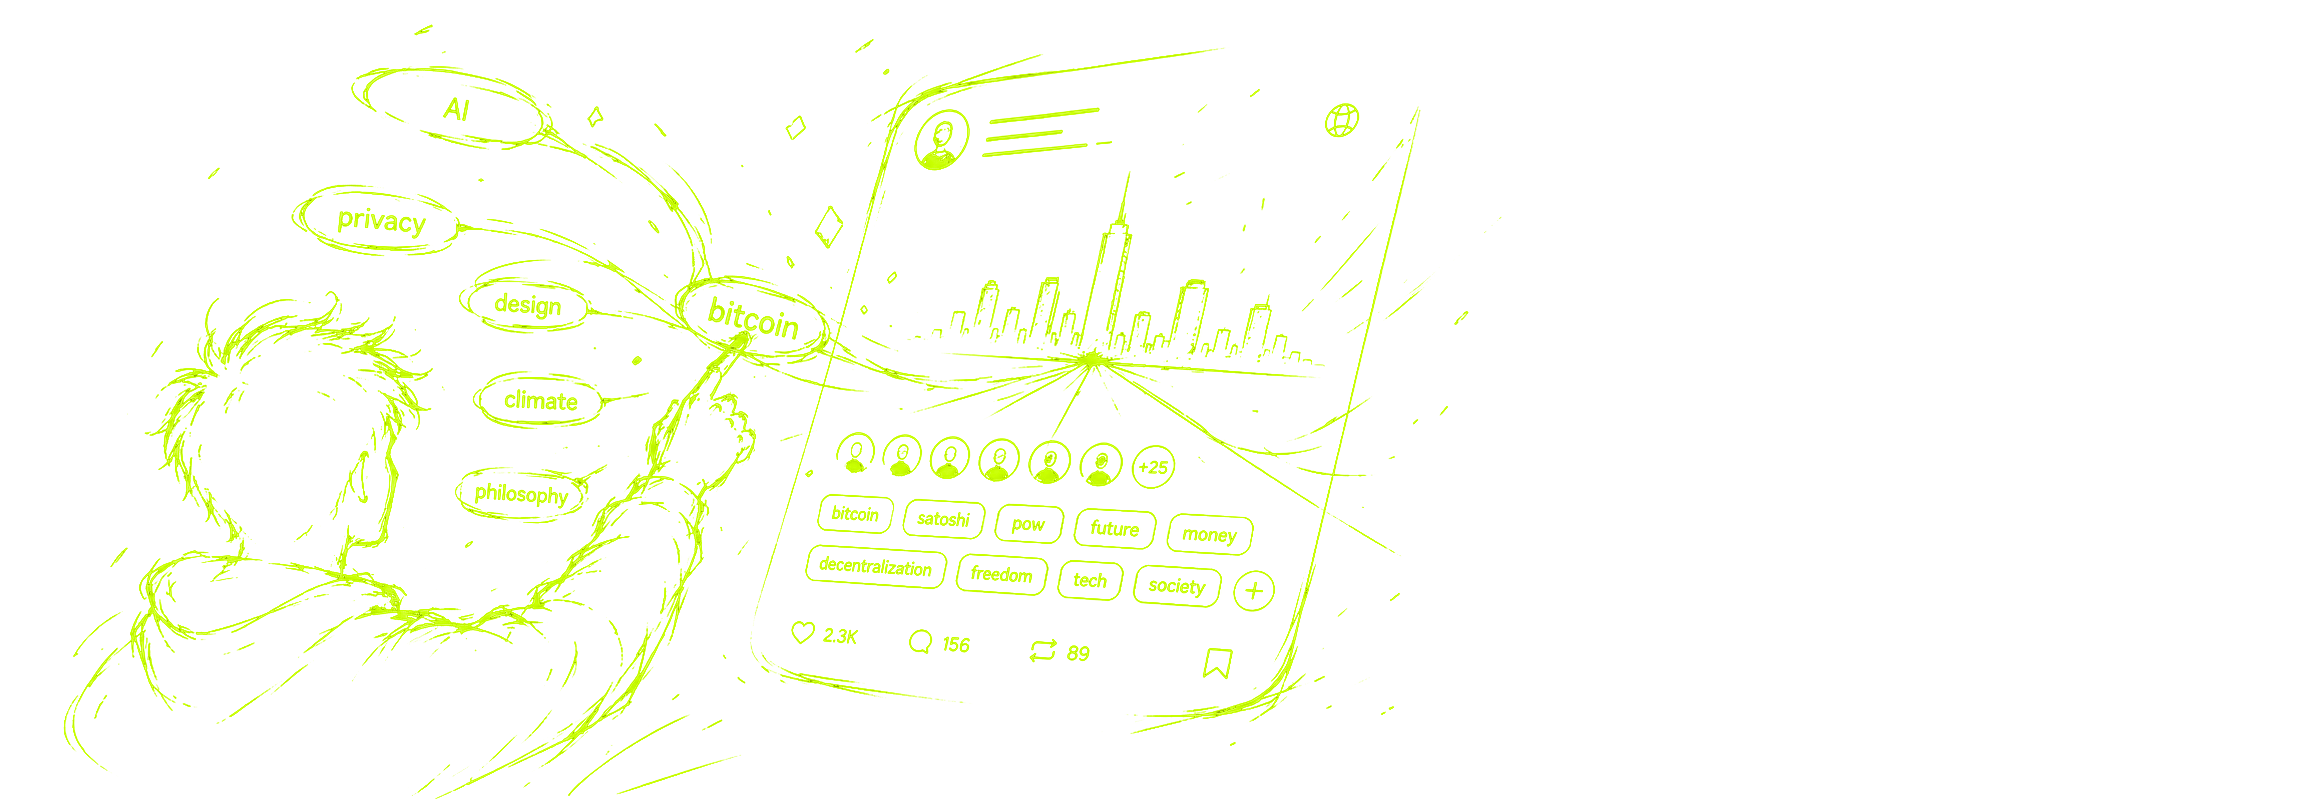
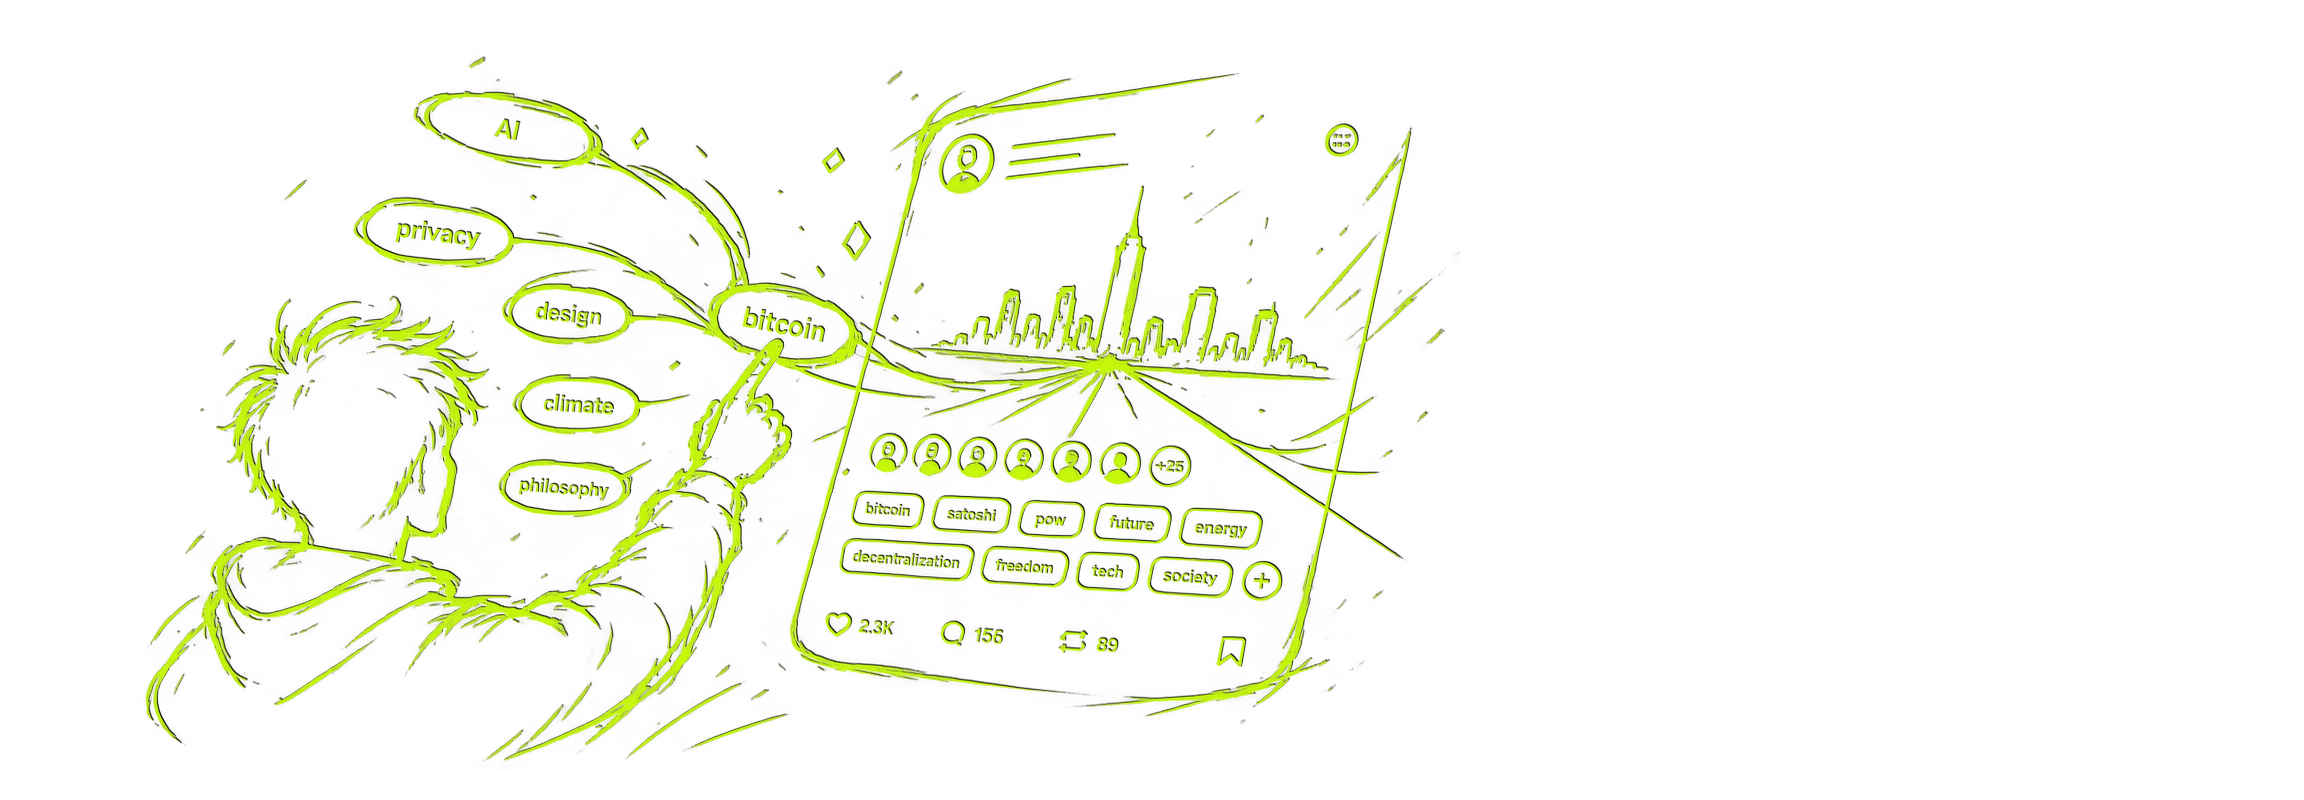
feat(ui): showcase locks and market on the homepage

diff --git a/src/components/templates/Public/Landing/LandingFreedomSection.tsx b/src/components/templates/Public/Landing/LandingFreedomSection.tsx
@@ -2,6 +2,7 @@
 
 import { useCallback, useEffect, useRef, useState } from 'react';
 import { ChevronRight } from 'lucide-react';
+import { Button } from '@/atoms/Button/Button';
 import { Container } from '@/atoms/Container/Container';
 import { Heading } from '@/atoms/Heading/Heading';
 import { Typography } from '@/atoms/Typography/Typography';
@@ -41,6 +42,18 @@ const FEATURES: Array<{ key: string; backgroundImage: string; title: string; des
     backgroundImage: '/images/landing-experience5.png',
     title: 'Collect what matters',
     description: 'Save posts worth keeping, curate your own ideas, and share your collections with others.',
+  },
+  {
+    key: 'locks',
+    backgroundImage: '/images/landing-experience6.png',
+    title: 'Sell your content',
+    description: 'Put a price on your content with Pubky Locks. Let people pay to unlock the value you create.',
+  },
+  {
+    key: 'market',
+    backgroundImage: '/images/landing-experience7.png',
+    title: 'Make a living',
+    description: 'Sell products on Pubky Market. Turn your key into a shop and connect directly with buyers.',
   },
 ];
 
@@ -82,7 +95,7 @@ export function LandingFreedomSection() {
     const timeoutId = window.setTimeout(handleNextSlide, SLIDE_DURATION_MS);
 
     return () => window.clearTimeout(timeoutId);
-  }, [activeSlide, handleNextSlide, isSectionVisible]);
+  }, [activeSlide, carouselRun, handleNextSlide, isSectionVisible]);
 
   const activeFeature = FEATURES[activeSlide];
   const slideNumber = String(activeSlide + 1).padStart(2, '0');
@@ -108,11 +121,11 @@ export function LandingFreedomSection() {
             {'Nobody feeds you. Create, shape, and experience the web on your terms.'}
           </Typography>
         </Container>
-        <article className="relative min-h-[560px] overflow-hidden rounded-md bg-card/80 p-12 shadow-sm backdrop-blur-sm md:min-h-[368px]">
+        <article className="relative min-h-[560px] overflow-hidden rounded-md bg-card/80 p-12 pb-80 shadow-sm backdrop-blur-sm md:min-h-[368px] md:pb-24">
           {FEATURES.map(({ key, backgroundImage }, index) => (
             <div
               key={key}
-              className={`absolute inset-x-0 bottom-0 h-[58%] bg-[length:auto_100%] bg-no-repeat opacity-0 transition-opacity duration-500 ease-in-out [background-position:calc(50%+100px)_100%] md:inset-0 md:h-auto md:bg-cover md:bg-center ${
+              className={`absolute inset-x-0 bottom-0 h-80 bg-[length:auto_100%] bg-no-repeat opacity-0 transition-opacity duration-500 ease-in-out [background-position:calc(50%+100px)_100%] md:inset-0 md:h-auto md:bg-cover md:bg-center ${
                 activeSlide === index ? 'opacity-100' : ''
               }`}
               style={{ backgroundImage: `url(${backgroundImage})` }}
@@ -139,14 +152,45 @@ export function LandingFreedomSection() {
               </Typography>
             </div>
           </div>
-          <button
-            type="button"
-            className="absolute right-8 bottom-8 z-20 flex size-12 cursor-pointer items-center justify-center text-brand transition-all duration-200 hover:scale-110 hover:text-foreground focus-visible:ring-2 focus-visible:ring-brand focus-visible:ring-offset-2 focus-visible:ring-offset-background focus-visible:outline-none md:right-10 md:bottom-10"
-            onClick={handleNextSlide}
-            aria-label={'Next slide'}
-          >
-            <ChevronRight className="size-10" strokeWidth={2.5} />
-          </button>
+          <div className="mt-4 md:absolute md:inset-x-12 md:bottom-10 md:z-10 md:mt-0">
+            <div className="pl-12 md:ml-auto md:w-[30%]">
+              <div className="-mr-4 ml-5 flex items-center md:-mr-2">
+                <div role="group" aria-label="Slide navigation" className="relative z-10 flex min-w-0 max-w-42 flex-1">
+                  {FEATURES.map(({ key, title }, index) => (
+                    <Button
+                      key={key}
+                      overrideDefaults
+                      type="button"
+                      className="group/dot flex h-12 min-w-0 flex-1 cursor-pointer items-center rounded-sm focus-visible:ring-2 focus-visible:ring-brand focus-visible:outline-none"
+                      aria-label={`Go to slide ${index + 1}: ${title}`}
+                      aria-current={activeSlide === index ? 'true' : undefined}
+                      onClick={() => {
+                        setActiveSlide(index);
+                        setCarouselRun((currentRun) => currentRun + 1);
+                      }}
+                    >
+                      <span
+                        aria-hidden
+                        className={cn(
+                          'size-1.5 shrink-0 rounded-full bg-brand transition-all duration-200 group-hover/dot:scale-125 group-hover/dot:opacity-50',
+                          activeSlide === index ? 'opacity-100' : 'opacity-30',
+                        )}
+                      />
+                    </Button>
+                  ))}
+                </div>
+                <Button
+                  overrideDefaults
+                  type="button"
+                  className="absolute right-8 bottom-8 z-10 ml-auto flex size-12 shrink-0 cursor-pointer items-center justify-center text-brand transition-all duration-200 hover:scale-110 hover:text-foreground focus-visible:ring-2 focus-visible:ring-brand focus-visible:ring-offset-2 focus-visible:ring-offset-background focus-visible:outline-none md:static"
+                  onClick={handleNextSlide}
+                  aria-label={'Next slide'}
+                >
+                  <ChevronRight className="size-10" strokeWidth={2.5} />
+                </Button>
+              </div>
+            </div>
+          </div>
         </article>
       </Container>
     </section>

diff --git a/src/components/templates/Public/Landing/LandingFreedomSection.test.tsx b/src/components/templates/Public/Landing/LandingFreedomSection.test.tsx
@@ -1,0 +1,103 @@
+import { act, fireEvent, render, screen, within } from '@testing-library/react';
+import userEvent from '@testing-library/user-event';
+import { afterEach, beforeEach, describe, expect, it, vi } from 'vitest';
+import { LandingFreedomSection } from './LandingFreedomSection';
+
+describe('LandingFreedomSection', () => {
+  beforeEach(() => {
+    vi.stubGlobal(
+      'IntersectionObserver',
+      class extends IntersectionObserver {
+        constructor(private readonly onIntersection: IntersectionObserverCallback) {
+          super(onIntersection);
+        }
+
+        observe(target: Element) {
+          this.onIntersection(
+            [
+              {
+                target,
+                isIntersecting: true,
+                intersectionRatio: 1,
+                boundingClientRect: target.getBoundingClientRect(),
+                intersectionRect: target.getBoundingClientRect(),
+                rootBounds: null,
+                time: 0,
+              },
+            ],
+            this,
+          );
+        }
+      },
+    );
+  });
+
+  afterEach(() => {
+    vi.useRealTimers();
+    vi.unstubAllGlobals();
+  });
+
+  it('provides seven slide controls with the first slide current', () => {
+    render(<LandingFreedomSection />);
+
+    const navigation = screen.getByRole('group', { name: 'Slide navigation' });
+    expect(within(navigation).getAllByRole('button')).toHaveLength(7);
+    expect(within(navigation).getByRole('button', { current: true })).toHaveAccessibleName(
+      'Go to slide 1: Create without limits',
+    );
+  });
+
+  it('selects the Market slide and returns to the first slide with the arrow', async () => {
+    const user = userEvent.setup();
+    render(<LandingFreedomSection />);
+
+    await user.click(screen.getByRole('button', { name: 'Go to slide 7: Make a living' }));
+
+    expect(screen.getByRole('heading', { name: 'Make a living' })).toBeInTheDocument();
+    expect(
+      screen.getByText(
+        'Sell products on Pubky Market. Turn your key into a shop and connect directly with buyers.',
+      ),
+    ).toBeInTheDocument();
+    expect(screen.getByRole('button', { current: true })).toHaveAccessibleName('Go to slide 7: Make a living');
+
+    await user.click(screen.getByRole('button', { name: 'Next slide' }));
+
+    expect(screen.getByRole('heading', { name: 'Create without limits' })).toBeInTheDocument();
+    expect(screen.getByRole('button', { current: true })).toHaveAccessibleName('Go to slide 1: Create without limits');
+  });
+
+  it('supports keyboard selection', async () => {
+    const user = userEvent.setup();
+    render(<LandingFreedomSection />);
+
+    screen.getByRole('button', { name: 'Go to slide 6: Sell your content' }).focus();
+    await user.keyboard('{Enter}');
+    expect(screen.getByRole('heading', { name: 'Sell your content' })).toBeInTheDocument();
+    expect(screen.getByRole('button', { current: true })).toHaveAccessibleName('Go to slide 6: Sell your content');
+  });
+
+  it('advances from Locks to Market automatically', () => {
+    vi.useFakeTimers();
+    render(<LandingFreedomSection />);
+    fireEvent.click(screen.getByRole('button', { name: 'Go to slide 6: Sell your content' }));
+
+    act(() => vi.advanceTimersByTime(6000));
+    expect(screen.getByRole('heading', { name: 'Make a living' })).toBeInTheDocument();
+    expect(screen.getByRole('button', { current: true })).toHaveAccessibleName('Go to slide 7: Make a living');
+  });
+
+  it('restarts the full slide duration when a dot is selected again', () => {
+    vi.useFakeTimers();
+    render(<LandingFreedomSection />);
+
+    fireEvent.click(screen.getByRole('button', { name: 'Go to slide 7: Make a living' }));
+    act(() => vi.advanceTimersByTime(5000));
+    fireEvent.click(screen.getByRole('button', { name: 'Go to slide 7: Make a living' }));
+    act(() => vi.advanceTimersByTime(5999));
+    expect(screen.getByRole('heading', { name: 'Make a living' })).toBeInTheDocument();
+
+    act(() => vi.advanceTimersByTime(1));
+    expect(screen.getByRole('heading', { name: 'Create without limits' })).toBeInTheDocument();
+  });
+});

diff --git a/src/test/vrt/landing/Landing.vrt.test.tsx b/src/test/vrt/landing/Landing.vrt.test.tsx
@@ -2,12 +2,14 @@
 // Vitest `__vi_import_N__` aliases; reordering causes a TDZ crash in
 // @vitest/browser. Do not let `eslint --fix` reorder these imports.
 /* eslint-disable simple-import-sort/imports */
-import { describe, it, vi } from 'vitest';
+import { describe, expect, it, vi } from 'vitest';
+import { page } from 'vitest/browser';
 import { matchVrtFrameScreenshot, preloadImages, renderForVRT } from '@/test-utils/vrt';
 import { VRT_VIEWPORT_DESKTOP, VRT_VIEWPORT_MOBILE } from '@/test-utils/vrt.viewports';
 import { createZustandLikeHook } from '@/test-utils/stores';
 import { Header } from '@/organisms/Header/Header';
 import { Landing } from '@/templates/Public/Landing/Landing';
+import { LandingFreedomSection } from '@/templates/Public/Landing/LandingFreedomSection';
 
 // Preload images into cache to guarantee they render before snapshot.
 // This ensures the logo and Synonym/"a tether. company" brand mark <img>s are loaded up front,
@@ -95,5 +97,57 @@ describe('Landing — visual regression', () => {
     await preloadImages(LANDING_LOGO_URLS);
     await renderForVRT(<LandingWithHeader />, { viewport: VRT_VIEWPORT_MOBILE });
     await matchVrtFrameScreenshot('landing-mobile');
+  });
+
+  it.each([
+    { name: 'desktop', viewport: VRT_VIEWPORT_DESKTOP },
+    { name: 'tablet', viewport: { width: 768, height: 1024 } },
+    { name: 'mobile', viewport: VRT_VIEWPORT_MOBILE },
+  ])('positions the seven slide dots and arrow on $name', async ({ name, viewport }) => {
+    await preloadImages(['/images/landing-experience7.png']);
+    await renderForVRT(<LandingFreedomSection />, { viewport });
+    const firstHeading = page.getByRole('heading', { name: 'Create without limits' });
+    await expect.element(firstHeading).toBeVisible();
+    const navigation = page.getByRole('group', { name: 'Slide navigation' }).element();
+    expect(navigation.getBoundingClientRect().top).toBeGreaterThan(
+      firstHeading.element().parentElement!.getBoundingClientRect().bottom,
+    );
+
+    await page.getByRole('button', { name: 'Go to slide 7: Make a living' }).click();
+    const heading = page.getByRole('heading', { name: 'Make a living' });
+    await expect.element(heading).toBeVisible();
+    await heading.hover();
+
+    const dots = navigation.querySelectorAll('button > span');
+    const arrow = page.getByRole('button', { name: 'Next slide' }).element().getBoundingClientRect();
+    expect(dots).toHaveLength(7);
+    expect(dots[0].getBoundingClientRect().left).toBeCloseTo(heading.element().getBoundingClientRect().left, 0);
+
+    dots.forEach((dot, index) => {
+      const bounds = dot.getBoundingClientRect();
+      if (name !== 'mobile') {
+        expect(bounds.top + bounds.height / 2).toBeCloseTo(arrow.top + arrow.height / 2, 0);
+        expect(bounds.right).toBeLessThanOrEqual(arrow.left);
+      }
+      expect(getComputedStyle(dot).opacity).toBe(index === 6 ? '1' : '0.3');
+    });
+    if (name === 'mobile') {
+      const article = page.getByRole('article').element();
+      const image = article.querySelector('[style*="background-image"]');
+      expect(image).not.toBeNull();
+      const navigationBounds = navigation.getBoundingClientRect();
+      const copyBounds = heading.element().parentElement!.getBoundingClientRect();
+      expect(navigationBounds.top).toBeGreaterThan(copyBounds.bottom);
+      expect(navigationBounds.bottom).toBeLessThanOrEqual(image!.getBoundingClientRect().top);
+      expect(article.getBoundingClientRect().bottom - arrow.bottom).toBeCloseTo(32, 0);
+      expect(article.getBoundingClientRect().right - arrow.right).toBeCloseTo(32, 0);
+    }
+    expect(navigation.querySelector('[aria-current="true"]')).toHaveAccessibleName('Go to slide 7: Make a living');
+
+    const restingColor = getComputedStyle(dots[6]).backgroundColor;
+    await page.getByRole('button', { name: 'Go to slide 7: Make a living' }).hover();
+    expect(getComputedStyle(dots[6]).backgroundColor).toBe(restingColor);
+    expect(getComputedStyle(dots[6]).opacity).toBe('0.5');
+    expect(getComputedStyle(dots[6]).scale).toBe('1.25');
   });
 });

diff --git a/src/components/templates/Public/Landing/LandingFinalSection.test.tsx b/src/components/templates/Public/Landing/LandingFinalSection.test.tsx
@@ -31,11 +31,12 @@ describe('LandingFinalSection', () => {
     expect(mockPush).toHaveBeenCalledWith('/onboarding/human');
   });
 
-  it('renders the Pubky Protocol link inside the legal line that underlines its links', () => {
+  it('opens the Pubky Protocol link in a new tab', () => {
     render(<LandingFinalSection />);
 
     const link = screen.getByRole('link', { name: 'Pubky Protocol' });
-    expect(link.closest('p')).toHaveClass('[&_a]:underline');
+    expect(link).toHaveAttribute('target', '_blank');
+    expect(link).toHaveAttribute('rel', 'noopener noreferrer');
   });
 
   it.each(LEGAL_DIALOGS)('opens the "$title" dialog when "$trigger" is clicked', async ({ trigger, title }) => {

diff --git a/src/components/templates/Public/Landing/LandingFinalSection.tsx b/src/components/templates/Public/Landing/LandingFinalSection.tsx
@@ -42,7 +42,7 @@ export function LandingFinalSection() {
           {'Join now'}
         </Button>
         <Logo noLink width={151} height={50} />
-        <FooterLinks className="max-w-xl text-center">
+        <FooterLinks className="max-w-xl text-center [&_a]:no-underline">
           {'By creating a '}
           {'Pubky'}
           {' account, you agree to the'} <DialogTerms />, <DialogPrivacy />
